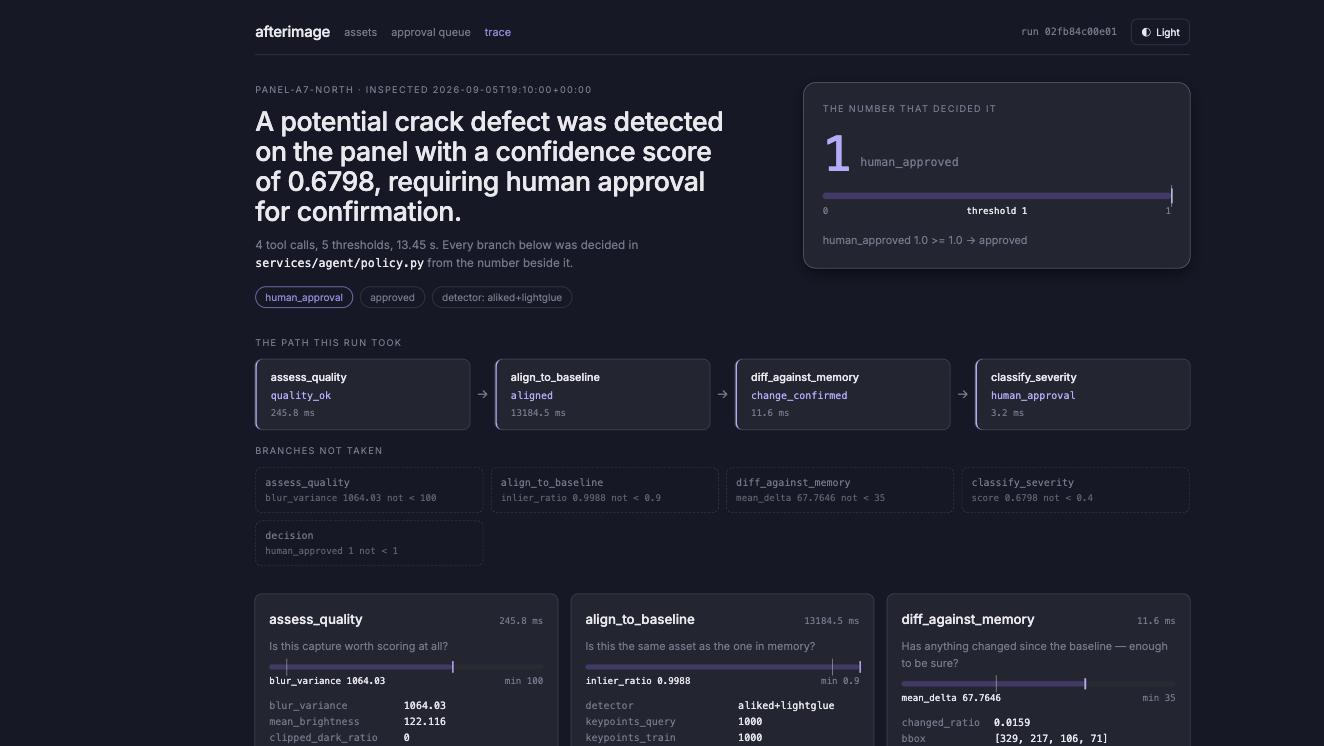
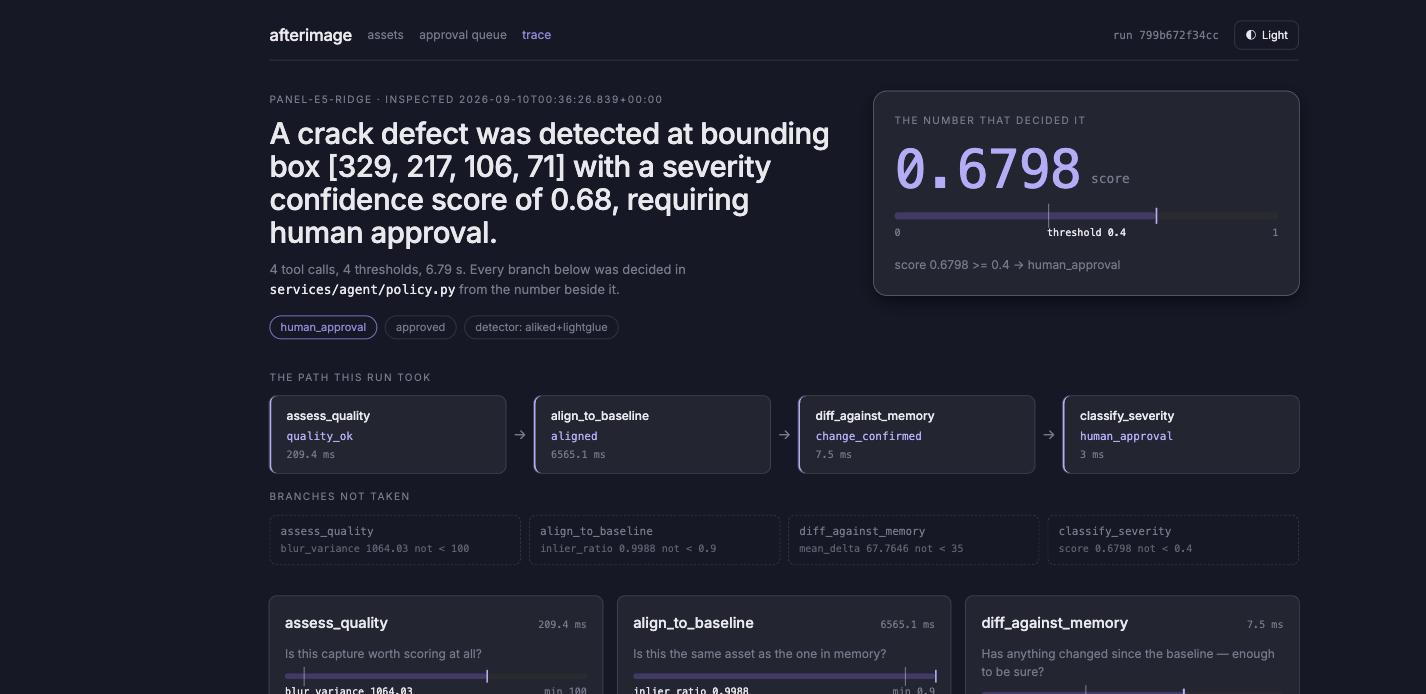
Retake the README demo against the deployed front end, and write down how
The GIF was the last asset still showing the pre-Nocturne look. It was made
by hand and the method was never recorded, which is how it survived a whole
redesign and a screenshot retake without anyone noticing.

It now runs the full arc rather than stopping at the trace: a capture is
uploaded, the trace opens and fills in span by span while the agent works,
the queue shows the changed region boxed against the baseline, a human
approves, and the asset history gains the new reference with the old one
marked superseded. That covers the four things the competition scores —
OpenCV deciding, bounded autonomy, longitudinal memory, human control —
instead of only the first.

Both PNGs are retaken from the same run, so the three assets now tell one
story. The trace shot is of an approved run, which is the case the
deciding-number panel used to get wrong: it leads with score 0.6798 >= 0.4
-> human_approval, and the history shot reads its threshold from the
verdict stored with the inspection.

video/PRODUCTION.md gains the recipe: the arc, the state the demo needs
(seed a clean baseline first or the run ends in no_change with nothing to
approve), the palette encoding that takes 1.6 MB down to 735 KB, and the
rule that submission material carries no tool branding.

diff --git a/video/PRODUCTION.md b/video/PRODUCTION.md
@@ -304,3 +304,55 @@ Synthetic speech pauses evenly, so the default run only proves the precise case.
 reader who hesitates mid-sentence — is what the real takes test, and it is why a boundary is chosen
 by pause length *and* by how well the split matches the length of the text around it. `LONG_BONUS`
 sets the balance; anywhere from 25 to 200 satisfies both cases, and it ships at 60.
+
+## 6. The README GIF
+
+`docs/img/demo.gif` is the first thing a judge sees, in the README and on Devpost. It had no
+recipe: the original was made by hand and the method was lost, which is why it was still showing
+the pre-Nocturne look months after the front end was redesigned, while the two PNGs beside it had
+already been retaken. This section exists so that does not happen again.
+
+**The arc**, five beats, ten seconds:
+
+1. the asset list and the upload form
+2. the form filled — asset id and the capture chosen
+3. the trace, open and empty, the moment the run starts
+4. the trace filled in: the deciding number, the four-tool path, the branches not taken
+5. the comparison with the changed region boxed, and `Waiting on a human`
+6. the queue: baseline against capture, the score under the threshold, `Approve write`
+7. the queue empty
+8. the asset history: the new baseline current, the old one `superseded by`
+
+**The state it needs.** The upload has to land on an asset whose **current baseline is a clean
+panel**, or the capture matches what memory already holds and the run ends in `no_change` with
+nothing to approve — the demo assets are all sitting on defect baselines from previous takes, so
+seed a fresh one first, off camera:
+
+    python3 video/make_demo_images.py        # writes video/img/{1-blurred,2-baseline,3-defect}.png
+    # upload 2-baseline.png to a new asset id -> first_baseline
+    # then record, uploading 3-defect.png to that same asset -> crack, human_approval
+
+**One gotcha when recording through automation.** The trace page stops polling while
+`document.hidden` is true, and a driven tab reports itself hidden, so the page never fills in and
+the central beat is lost. Make the tab report itself visible before the run starts; the swap that
+follows is the page's own, unmodified:
+
+    Object.defineProperty(document, 'hidden', { get: () => false, configurable: true });
+
+**Encoding.** Whatever produces the frames, the export is oversized and over-coloured. Reduce it
+with a dedicated palette rather than the default web one — 1.6 MB becomes ~735 KB with no visible
+loss on the dark UI:
+
+    ffmpeg -y -i raw.gif -vf "fps=0.8,scale=1100:-1:flags=lanczos,\
+    palettegen=max_colors=192:stats_mode=diff" palette.png
+    ffmpeg -y -i raw.gif -i palette.png -lavfi "fps=0.8,scale=1100:-1:flags=lanczos[x];\
+    [x][1:v]paletteuse=dither=bayer:bayer_scale=3:diff_mode=rectangle" docs/img/demo.gif
+
+1100 px wide against the README's `width="880"` leaves a little headroom for a dense display
+without paying for a full 2×. Keep it under a megabyte.
+
+**No branding in the output.** Whatever records the frames, strip every overlay — watermarks,
+click indicators, action labels, progress bars. This is submission material.
+
+**When the front end changes, this file and `docs/img/` change with it.** Retaking the two PNGs
+and forgetting the GIF is the exact mistake this section documents.

diff --git a/README.md b/README.md
@@ -22,8 +22,8 @@
 </p>
 
 <p align="center">
-  <a href="https://jgmzrkpa344jwixw7nbulgh2ju0mojcb.lambda-url.us-east-1.on.aws/"><img src="docs/img/demo.gif" alt="A capture is uploaded, the agent loop runs, and the trace shows the number that decided each branch" width="880"></a><br>
-  <sub>Upload a capture → the loop decides → the trace shows the value behind every decision</sub><br>
+  <a href="https://jgmzrkpa344jwixw7nbulgh2ju0mojcb.lambda-url.us-east-1.on.aws/"><img src="docs/img/demo.gif" alt="A capture is uploaded, the trace opens and fills in as the agent works, the queue shows the changed region against the baseline, a human approves, and the asset history gains the new reference" width="880"></a><br>
+  <sub>Upload a capture → the loop decides → the trace shows the value behind every decision → a human approves what the policy would not write alone</sub><br>
   <sub><a href="https://youtu.be/zUFR96a33IM">Watch the 5-minute walkthrough</a> · <a href="https://jgmzrkpa344jwixw7nbulgh2ju0mojcb.lambda-url.us-east-1.on.aws/">try the live endpoint</a></sub>
 </p>
 
